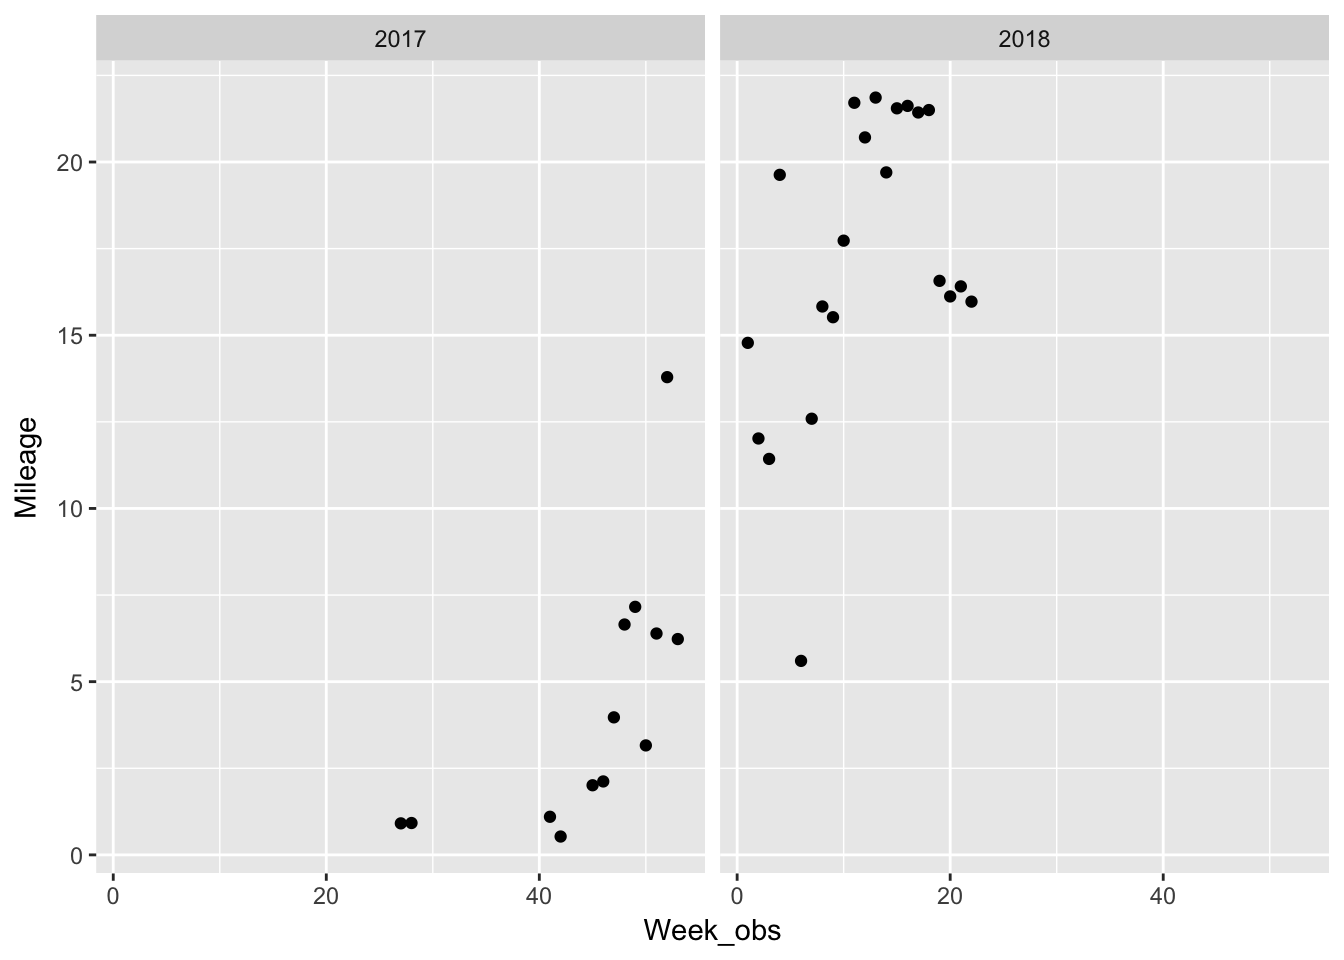
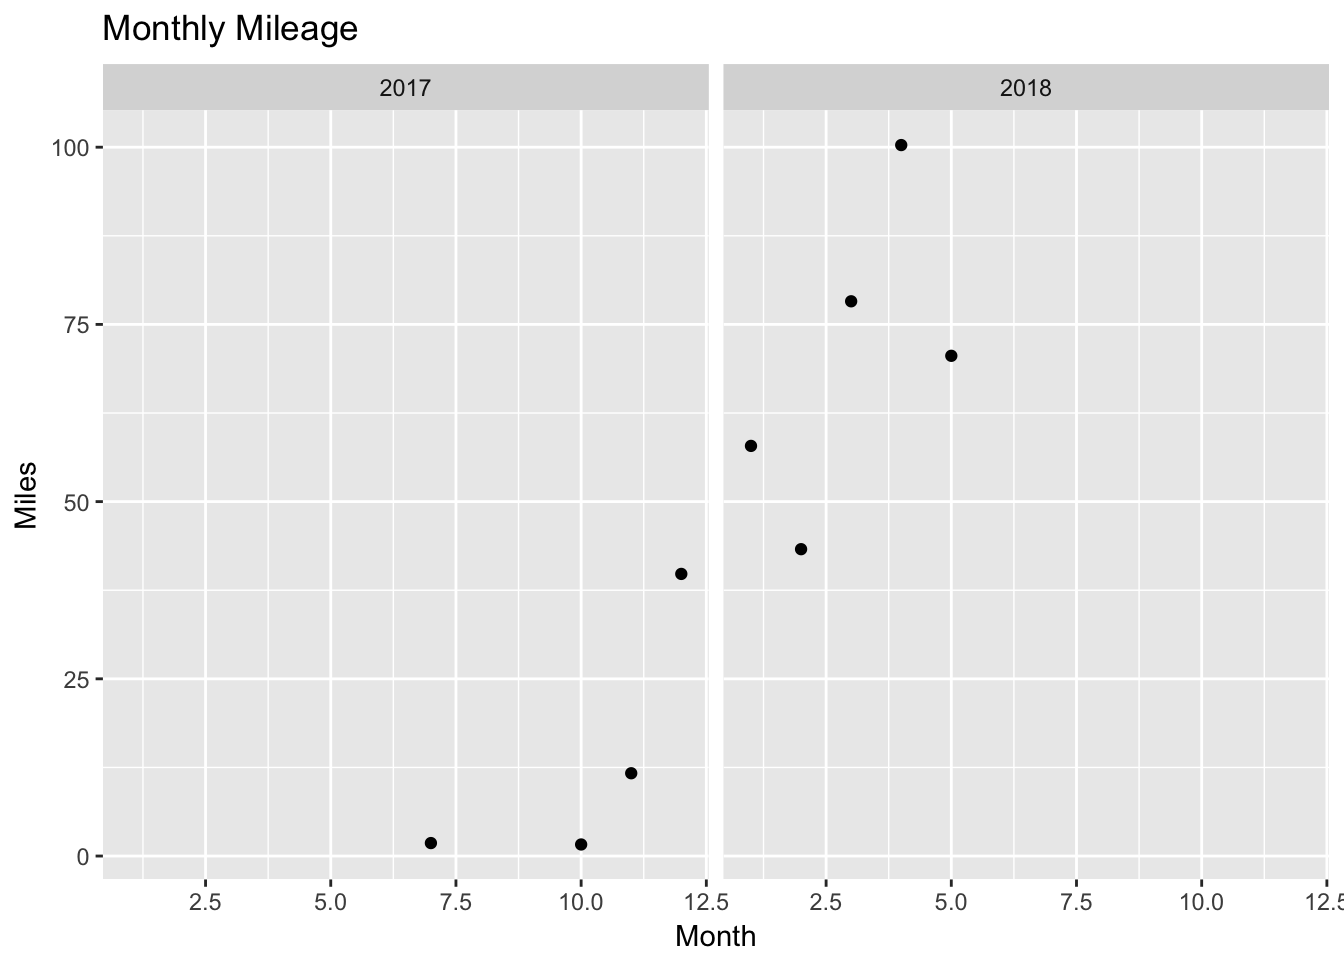
minor changes

diff --git a/2018/06/03/runkeeper-data/index.html b/2018/06/03/runkeeper-data/index.html
@@ -8,9 +8,9 @@
   <title>Runkeeper Data</title>
   <meta property="og:title" content="Runkeeper Data" />
   <meta name="twitter:title" content="Runkeeper Data" />
-  <meta name="description" content="Last summer I started running again after about 8 years off. I had run from my sophomore year of high school until the fall of 2008 when it seemed like I had a meniscus injury and I stopped running. That was 17 years of running during which the longest break I had taken was maybe a few months. I always missed it, so when my son started training for a Scouting event, I decided I would keep him company.">
-  <meta property="og:description" content="Last summer I started running again after about 8 years off. I had run from my sophomore year of high school until the fall of 2008 when it seemed like I had a meniscus injury and I stopped running. That was 17 years of running during which the longest break I had taken was maybe a few months. I always missed it, so when my son started training for a Scouting event, I decided I would keep him company.">
-  <meta name="twitter:description" content="Last summer I started running again after about 8 years off. I had run from my sophomore year of high school until the fall of 2008 when it seemed like I had a meniscus injury and I stopped running. …">
+  <meta name="description" content="Last summer I started running again after about 8 years off. I had run from my sophomore year of high school until the fall of 2008 when it seemed like I had a meniscus injury and I stopped running. I had run for 17 years, during which the longest break I had taken was maybe a few months. After I stopped, I always missed it, and when my son started training for a Scouting running achievement, I decided I would keep him company.">
+  <meta property="og:description" content="Last summer I started running again after about 8 years off. I had run from my sophomore year of high school until the fall of 2008 when it seemed like I had a meniscus injury and I stopped running. I had run for 17 years, during which the longest break I had taken was maybe a few months. After I stopped, I always missed it, and when my son started training for a Scouting running achievement, I decided I would keep him company.">
+  <meta name="twitter:description" content="Last summer I started running again after about 8 years off. I had run from my sophomore year of high school until the fall of 2008 when it seemed like I had a meniscus injury and I stopped running. I …">
   <meta name="author" content="Mike Ching"/>
   <link href='../../../../img/favicon.ico' rel='icon' type='image/x-icon'/>
   <meta property="og:image" content="/img/IMG_6557.jpg" />
@@ -190,53 +190,33 @@
   <div class="row">
     <div class="col-lg-8 col-lg-offset-2 col-md-10 col-md-offset-1">
       <article role="main" class="blog-post">
-        <p>Last summer I started running again after about 8 years off. I had run from my sophomore year of high school until the fall of 2008 when it seemed like I had a meniscus injury and I stopped running. That was 17 years of running during which the longest break I had taken was maybe a few months. I always missed it, so when my son started training for a Scouting event, I decided I would keep him company. Lo and behold my knee felt ok, so I figured I would keep going. I’ve been using the Runkeeper app to track my runs and decided to look at what the data showed.</p>
-<pre class="r"><code>library(dplyr)</code></pre>
-<pre><code>## 
-## Attaching package: &#39;dplyr&#39;</code></pre>
-<pre><code>## The following objects are masked from &#39;package:stats&#39;:
-## 
-##     filter, lag</code></pre>
-<pre><code>## The following objects are masked from &#39;package:base&#39;:
-## 
-##     intersect, setdiff, setequal, union</code></pre>
-<pre class="r"><code>library(ggplot2)
-library(lubridate)</code></pre>
-<pre><code>## 
-## Attaching package: &#39;lubridate&#39;</code></pre>
-<pre><code>## The following object is masked from &#39;package:base&#39;:
-## 
-##     date</code></pre>
+        <p>Last summer I started running again after about 8 years off. I had run from my sophomore year of high school until the fall of 2008 when it seemed like I had a meniscus injury and I stopped running. I had run for 17 years, during which the longest break I had taken was maybe a few months. After I stopped, I always missed it, and when my son started training for a Scouting running achievement, I decided I would keep him company. Lo and behold my knee felt ok, so I figured I would keep going. I’ve been using the <a href="https://runkeeper.com/index">Runkeeper</a> app to track my runs and decided to look at what the data showed.</p>
+<pre class="r"><code>suppressPackageStartupMessages(library(dplyr))
+library(ggplot2)
+suppressPackageStartupMessages(library(lubridate))</code></pre>
+<p>I downloaded the data from the <a href="https://runkeeper.com/index">Runkeeper website.</a> It came as a zip file containing all my GPS tracks plus a processed csv file.</p>
 <pre class="r"><code>dat &lt;- tbl_df(read.csv(&quot;../datasets/cardioActivities.csv&quot;))
-dat</code></pre>
-<pre><code>## # A tibble: 89 x 14
-##    Activity.Id  Date  Type  Route.Name Distance..mi. Duration Average.Pace
-##    &lt;fct&gt;        &lt;fct&gt; &lt;fct&gt; &lt;lgl&gt;              &lt;dbl&gt; &lt;fct&gt;    &lt;fct&gt;       
-##  1 4ff0c9dd-97… 2018… Runn… NA                 10    1:32:29  9:15        
-##  2 dc011367-b4… 2018… Runn… NA                  5.97 54:27    9:08        
-##  3 0e7d5b74-7a… 2018… Rowi… NA                  3.82 30:08    7:53        
-##  4 870ef074-54… 2018… Runn… NA                 11.4  1:50:01  9:40        
-##  5 3afb0d49-06… 2018… Cycl… NA                  8.61 36:10    4:12        
-##  6 77913c3d-92… 2018… Runn… NA                  5.02 47:38    9:30        
-##  7 1450300b-c6… 2018… Runn… NA                  6.22 53:00    8:31        
-##  8 39ca5e99-8f… 2018… Runn… NA                  0.88 8:58     10:10       
-##  9 ce730a71-95… 2018… Runn… NA                  5.01 46:07    9:13        
-## 10 5febf442-c3… 2018… Runn… NA                  4.01 36:46    9:10        
-## # ... with 79 more rows, and 7 more variables: Average.Speed..mph. &lt;dbl&gt;,
-## #   Calories.Burned &lt;dbl&gt;, Climb..ft. &lt;int&gt;,
-## #   Average.Heart.Rate..bpm. &lt;int&gt;, Friend.s.Tagged &lt;lgl&gt;, Notes &lt;fct&gt;,
-## #   GPX.File &lt;fct&gt;</code></pre>
+glimpse(dat)</code></pre>
+<pre><code>## Observations: 89
+## Variables: 14
+## $ Activity.Id              &lt;fct&gt; 4ff0c9dd-9713-4a29-98e2-8112c66e2d5c,...
+## $ Date                     &lt;fct&gt; 2018-06-01 16:45:49, 2018-05-30 06:31...
+## $ Type                     &lt;fct&gt; Running, Running, Rowing, Running, Cy...
+## $ Route.Name               &lt;lgl&gt; NA, NA, NA, NA, NA, NA, NA, NA, NA, N...
+## $ Distance..mi.            &lt;dbl&gt; 10.00, 5.97, 3.82, 11.39, 8.61, 5.02,...
+## $ Duration                 &lt;fct&gt; 1:32:29, 54:27, 30:08, 1:50:01, 36:10...
+## $ Average.Pace             &lt;fct&gt; 9:15, 9:08, 7:53, 9:40, 4:12, 9:30, 8...
+## $ Average.Speed..mph.      &lt;dbl&gt; 6.49, 6.57, 7.61, 6.21, 14.28, 6.32, ...
+## $ Calories.Burned          &lt;dbl&gt; 1334.0000, 801.0000, 369.6282, 1509.0...
+## $ Climb..ft.               &lt;int&gt; 142, 125, 0, 96, 0, 160, 59, 8, 160, ...
+## $ Average.Heart.Rate..bpm. &lt;int&gt; NA, NA, NA, NA, NA, NA, 167, 152, 146...
+## $ Friend.s.Tagged          &lt;lgl&gt; NA, NA, NA, NA, NA, NA, NA, NA, NA, N...
+## $ Notes                    &lt;fct&gt; , , , , , , Time trial goal 10k in 54...
+## $ GPX.File                 &lt;fct&gt; 2018-06-01-164549.gpx, 2018-05-30-063...</code></pre>
 <pre class="r"><code>dat$Date &lt;- ymd_hms(dat$Date)</code></pre>
-<div id="activities" class="section level2">
-<h2>Activities</h2>
-<p>I don’t consistently tracka c</p>
-<pre class="r"><code>table(dat$Type)</code></pre>
-<pre><code>## 
-## Cycling  Rowing Running 
-##       5       4      80</code></pre>
-</div>
 <div id="weekly-mileage" class="section level2">
 <h2>Weekly Mileage</h2>
+<p>There was a lot of data there but I thought the first thing to start with would be my weekly mileage. I wanted to see how that changed over the last year.</p>
 <pre class="r"><code>dat %&gt;%  
 #  filter(Date &lt; ymd(20180601)) %&gt;% 
   filter(Type == &quot;Running&quot;) %&gt;%
@@ -245,8 +225,76 @@ dat</code></pre>
   summarize(Mileage = sum(Distance..mi.)) %&gt;%
   ggplot(aes(x = Week_obs, y = Mileage)) + 
   facet_grid( ~ factor(Year_obs)) +
-  geom_point()</code></pre>
+  geom_point() +
+  labs(title = &quot;Weekly Mileage&quot;,
+       x = &quot;Week&quot;, 
+       y = &quot;Miles&quot;)</code></pre>
+<p><img src="../../../../post/2018-06-03-runkeeper-data_files/figure-html/unnamed-chunk-4-1.png" width="672" /></p>
+</div>
+<div id="monthly-mileage" class="section level2">
+<h2>Monthly Mileage</h2>
+<p>In <a href="https://www.amazon.com/dp/B0015DWJ8W/ref=dp-kindle-redirect?_encoding=UTF8&amp;btkr=1">What I Talk about When I Talk about Running</a> by Haruki Murakami, he talks about his monthly mileage, averaging 136-186 miles per month. My monthly averages weren’t as impressive as his.</p>
+<pre class="r"><code>dat %&gt;%  
+  filter(Date &lt; ymd(&quot;20180601&quot;)) %&gt;%
+  filter(Type == &quot;Running&quot;) %&gt;%
+  mutate(Month_obs = month(Date), Year_obs = year(Date)) %&gt;%
+  group_by(Year_obs, Month_obs) %&gt;%
+  summarize(Mileage = sum(Distance..mi.)) %&gt;%
+  ggplot(aes(x = Month_obs, y = Mileage)) + 
+  facet_grid( ~ factor(Year_obs)) +
+  geom_point() +
+  labs(title = &quot;Monthly Mileage&quot;,
+       x = &quot;Month&quot;, 
+       y = &quot;Miles&quot;)</code></pre>
 <p><img src="../../../../post/2018-06-03-runkeeper-data_files/figure-html/unnamed-chunk-5-1.png" width="672" /></p>
+</div>
+<div id="calories-burned" class="section level2">
+<h2>Calories Burned</h2>
+<p>I tracked my weekly calories burned, expecting that these would be highly correlated with mileage.</p>
+<pre class="r"><code>dat %&gt;%  
+  filter(Type == &quot;Running&quot;) %&gt;%
+  mutate(Week_obs = week(Date), Year_obs = year(Date)) %&gt;%
+  group_by(Year_obs, Week_obs) %&gt;%
+  summarize(Calories = sum(Calories.Burned)) %&gt;%
+  ggplot(aes(x = Week_obs, y = Calories)) + 
+  facet_grid( ~ factor(Year_obs)) +
+  geom_point() +
+  labs(title = &quot;Weekly Calories&quot;,
+       x = &quot;Week&quot;, 
+       y = &quot;Total Calories&quot;)</code></pre>
+<p><img src="../../../../post/2018-06-03-runkeeper-data_files/figure-html/unnamed-chunk-6-1.png" width="672" /></p>
+</div>
+<div id="correlation-between-calories-and-miles" class="section level2">
+<h2>Correlation between Calories and Miles</h2>
+<p>The app estimated calories per run. There was a linear correlation between calories and miles run, as displayed below.</p>
+<pre class="r"><code>dat %&gt;% filter(Type == &quot;Running&quot;) %&gt;%
+  ggplot(aes(x = Distance..mi., y = Calories.Burned)) + geom_point() + geom_smooth(method = &quot;lm&quot;) +
+  labs(title = &quot;Correlation between Calories and Miles Run&quot;,
+       x = &quot;Miles&quot;,
+       y = &quot;Calories&quot;)</code></pre>
+<p><img src="../../../../post/2018-06-03-runkeeper-data_files/figure-html/unnamed-chunk-7-1.png" width="672" /></p>
+<p>This was a very linear relationship, even at the very extremes of the distances run. I fit a linear model and determined that a rough estimate of the energy expenditure rate was 136 calories per mile.</p>
+<pre class="r"><code>x &lt;- filter(dat, Type == &quot;Running&quot;)
+model1 &lt;- lm(x$Calories.Burned ~ x$Distance..mi.)
+summary(model1)</code></pre>
+<pre><code>## 
+## Call:
+## lm(formula = x$Calories.Burned ~ x$Distance..mi.)
+## 
+## Residuals:
+##     Min      1Q  Median      3Q     Max 
+## -66.844  -5.463  -1.716   4.585  44.856 
+## 
+## Coefficients:
+##                 Estimate Std. Error t value Pr(&gt;|t|)    
+## (Intercept)      -3.6690     4.3352  -0.846      0.4    
+## x$Distance..mi. 136.1300     0.7617 178.715   &lt;2e-16 ***
+## ---
+## Signif. codes:  0 &#39;***&#39; 0.001 &#39;**&#39; 0.01 &#39;*&#39; 0.05 &#39;.&#39; 0.1 &#39; &#39; 1
+## 
+## Residual standard error: 15.91 on 78 degrees of freedom
+## Multiple R-squared:  0.9976, Adjusted R-squared:  0.9975 
+## F-statistic: 3.194e+04 on 1 and 78 DF,  p-value: &lt; 2.2e-16</code></pre>
 </div>
 
       </article>

diff --git a/2017/12/20/hi-hs-football-allstars/index.html b/2017/12/20/hi-hs-football-allstars/index.html
@@ -224,7 +224,7 @@ fb &lt;- gs_title(&quot;HI_football_allstars&quot;)</code></pre>
 ## $ paper    &lt;chr&gt; &quot;HSA&quot;, &quot;HSA&quot;, &quot;HSA&quot;, &quot;HSA&quot;, &quot;HSA&quot;, &quot;HSA&quot;, &quot;HSA&quot;, &quot;HSA...</code></pre>
 <pre class="r"><code>x$position &lt;- factor(x$position)
 x$paper &lt;- factor(x$paper)</code></pre>
-<p>Historically there were two newspapers in Honolulu, the Honolulu Star-Bulletin and the Honolulu Advertiser. These newspapers published separate all star lists until they merged in early 2010 and became the Honolulu Star-Advertiser.</p>
+<p>Historically there were two newspapers in Honolulu, the Honolulu Star-Bulletin and the Honolulu Advertiser. These newspapers published separate all star lists until they merged in early 2010 and became the <a href="http://www.staradvertiser.com/">Honolulu Star-Advertiser.</a></p>
 <p>I calculated the size of the all star teams over the years.</p>
 <pre class="r"><code># players over years
 x %&gt;% mutate(one = 1) %&gt;% group_by(year, paper) %&gt;% summarize(nplayers = sum(one)) %&gt;%
@@ -388,6 +388,157 @@ x %&gt;%
        subtitle = &quot;1972-2017, minimum 10 players&quot;,
        y = &quot;Number of All Stars&quot;)</code></pre>
 <p><img src="../../../../post/2017-12-20-hawaii-high-school-football-allstars_files/figure-html/unnamed-chunk-10-1.png" width="672" /></p>
+<p>It turned out that Saint Louis has been dominant for decades but Kahuku has come on strong lately. Kahuku’s rise has correlated with a slight downturn in Kamehameha and Waianae. It’s possible that Kamehameha used to get Kahuku players to come to their school but now they choose to stay home. On the other hand it doesn’t seem likely that Waianae’s players moved to Kahuku to play. Future steps might be looking at the early decades since they’re all crushed together there at the bottom of the chart.</p>
+</div>
+<div id="position-u" class="section level2">
+<h2>Position U</h2>
+<p>I hypothesized that some schools might have more all stars at certain positions than other schools. Here’s the list for quarterback.</p>
+<pre class="r"><code>x %&gt;%   
+  mutate(name = paste(first, last), one = 1) %&gt;% 
+  group_by(year) %&gt;%
+  distinct(name, .keep_all = T) %&gt;% 
+  group_by(position, team) %&gt;%
+  summarize(nplayers = n()) %&gt;% 
+  filter(position == &quot;QB&quot;) %&gt;%
+  arrange(-nplayers)</code></pre>
+<pre><code>## # A tibble: 13 x 3
+## # Groups:   position [1]
+##    position team        nplayers
+##    &lt;fct&gt;    &lt;chr&gt;          &lt;int&gt;
+##  1 QB       Saint Louis       19
+##  2 QB       Leilehua           5
+##  3 QB       Pac-Five           5
+##  4 QB       Punahou            5
+##  5 QB       Iolani             4
+##  6 QB       Kahuku             3
+##  7 QB       Waianae            3
+##  8 QB       Mililani           2
+##  9 QB       Farrington         1
+## 10 QB       Kaiser             1
+## 11 QB       Kamehameha         1
+## 12 QB       Lahainaluna        1
+## 13 QB       McKinley           1</code></pre>
+<p>Running back was surprisingly different. Farrington came out on top here.</p>
+<pre class="r"><code>x %&gt;%   
+  mutate(name = paste(first, last), one = 1) %&gt;% 
+  group_by(year) %&gt;%
+  distinct(name, .keep_all = T) %&gt;% 
+  group_by(position, team) %&gt;%
+  summarize(nplayers = n()) %&gt;% 
+  filter(position == &quot;RB&quot;) %&gt;%
+  arrange(-nplayers)</code></pre>
+<pre><code>## # A tibble: 21 x 3
+## # Groups:   position [1]
+##    position team        nplayers
+##    &lt;fct&gt;    &lt;chr&gt;          &lt;int&gt;
+##  1 RB       Farrington        16
+##  2 RB       Kahuku            15
+##  3 RB       Kamehameha        11
+##  4 RB       Saint Louis        9
+##  5 RB       Punahou            7
+##  6 RB       Waianae            5
+##  7 RB       Damien             4
+##  8 RB       Leilehua           4
+##  9 RB       Mililani           4
+## 10 RB       Iolani             3
+## # ... with 11 more rows</code></pre>
+<p>Other positions were pretty much dominated by Saint Louis, just like the regular rankings.</p>
+<pre class="r"><code>x %&gt;%   
+  mutate(name = paste(first, last), one = 1) %&gt;% 
+  group_by(year) %&gt;%
+  distinct(name, .keep_all = T) %&gt;% 
+  group_by(position, team) %&gt;%
+  summarize(nplayers = n()) %&gt;% 
+  filter(position == &quot;LB&quot;) %&gt;%
+  arrange(-nplayers)</code></pre>
+<pre><code>## # A tibble: 29 x 3
+## # Groups:   position [1]
+##    position team        nplayers
+##    &lt;fct&gt;    &lt;chr&gt;          &lt;int&gt;
+##  1 LB       Saint Louis       39
+##  2 LB       Kahuku            28
+##  3 LB       Waianae           17
+##  4 LB       Kamehameha        15
+##  5 LB       Punahou           14
+##  6 LB       Farrington        12
+##  7 LB       Castle             6
+##  8 LB       Iolani             6
+##  9 LB       Leilehua           6
+## 10 LB       Damien             5
+## # ... with 19 more rows</code></pre>
+<p>What about player of the year? This was pretty messy in how it was coded. Still there were enough OPOY and DPOY that it might be worth looking at.</p>
+<pre class="r"><code>table(x$poy)</code></pre>
+<pre><code>## 
+##             Back of the year             Back of the Year 
+##                            3                            3 
+##                      co dpoy                      co opoy 
+##                            2                            3 
+##                      co-opoy            coach of the year 
+##                            1                            1 
+##                          cOY                          COY 
+##                            1                            4 
+##                        D POY Defensive player of the year 
+##                            2                            1 
+## Defensive Player of the Year                         dpoy 
+##                           13                            3 
+##                         DPOY          Lineman of the year 
+##                           38                            6 
+##          Lineman of the Year                        O POY 
+##                            2                            1 
+## Offensive Player of the Year                Offensive POY 
+##                            1                            1 
+##                         opoy                         OPOY 
+##                            1                           57 
+##           Player of the Year                           So 
+##                            1                            1 
+##                         soph 
+##                            2</code></pre>
+<p>```</p>
+<pre class="r"><code>x %&gt;%   
+  mutate(name = paste(first, last), one = 1) %&gt;% 
+  group_by(year) %&gt;%
+  distinct(name, .keep_all = T) %&gt;% 
+  filter(!is.na(poy)) %&gt;%
+  filter(poy == &quot;DPOY&quot;) %&gt;%
+  group_by(poy, team) %&gt;%
+  summarize(nplayers = n()) %&gt;%
+  arrange(-nplayers)</code></pre>
+<pre><code>## # A tibble: 8 x 3
+## # Groups:   poy [1]
+##   poy   team        nplayers
+##   &lt;chr&gt; &lt;chr&gt;          &lt;int&gt;
+## 1 DPOY  Kahuku             8
+## 2 DPOY  Waianae            4
+## 3 DPOY  Leilehua           3
+## 4 DPOY  Kamehameha         2
+## 5 DPOY  Mililani           2
+## 6 DPOY  Saint Louis        2
+## 7 DPOY  Campbell           1
+## 8 DPOY  Punahou            1</code></pre>
+<pre class="r"><code>  x %&gt;%   
+  mutate(name = paste(first, last), one = 1) %&gt;% 
+  group_by(year) %&gt;%
+  distinct(name, .keep_all = T) %&gt;% 
+  filter(!is.na(poy)) %&gt;%
+  filter(poy == &quot;OPOY&quot;) %&gt;%
+  group_by(poy, team) %&gt;%
+  summarize(nplayers = n()) %&gt;%
+  arrange(-nplayers)</code></pre>
+<pre><code>## # A tibble: 11 x 3
+## # Groups:   poy [1]
+##    poy   team        nplayers
+##    &lt;chr&gt; &lt;chr&gt;          &lt;int&gt;
+##  1 OPOY  Saint Louis       11
+##  2 OPOY  Kahuku             5
+##  3 OPOY  Leilehua           4
+##  4 OPOY  Punahou            4
+##  5 OPOY  Iolani             2
+##  6 OPOY  Kamehameha         2
+##  7 OPOY  Mililani           2
+##  8 OPOY  Waianae            2
+##  9 OPOY  Damien             1
+## 10 OPOY  Farrington         1
+## 11 OPOY  Kaiser             1</code></pre>
 </div>
 
       </article>

diff --git a/categories/r/index.html b/categories/r/index.html
@@ -181,7 +181,7 @@
               </p>
               <div class="post-entry">
                 
-                  Last summer I started running again after about 8 years off. I had run from my sophomore year of high school until the fall of 2008 when it seemed like I had a meniscus injury and I stopped running. That was 17 years of running during which the longest break I had taken was maybe a few months. I always missed it, so when my son started training for a Scouting event, I decided I would keep him company.
+                  Last summer I started running again after about 8 years off. I had run from my sophomore year of high school until the fall of 2008 when it seemed like I had a meniscus injury and I stopped running. I had run for 17 years, during which the longest break I had taken was maybe a few months. After I stopped, I always missed it, and when my son started training for a Scouting running achievement, I decided I would keep him company.
                   <a href="../../2018/06/03/runkeeper-data/" class="post-read-more">[Read More]</a>
                 
               </div>

diff --git a/tags/exercise/index.html b/tags/exercise/index.html
@@ -181,7 +181,7 @@
               </p>
               <div class="post-entry">
                 
-                  Last summer I started running again after about 8 years off. I had run from my sophomore year of high school until the fall of 2008 when it seemed like I had a meniscus injury and I stopped running. That was 17 years of running during which the longest break I had taken was maybe a few months. I always missed it, so when my son started training for a Scouting event, I decided I would keep him company.
+                  Last summer I started running again after about 8 years off. I had run from my sophomore year of high school until the fall of 2008 when it seemed like I had a meniscus injury and I stopped running. I had run for 17 years, during which the longest break I had taken was maybe a few months. After I stopped, I always missed it, and when my son started training for a Scouting running achievement, I decided I would keep him company.
                   <a href="../../2018/06/03/runkeeper-data/" class="post-read-more">[Read More]</a>
                 
               </div>

diff --git a/post/index.html b/post/index.html
@@ -181,7 +181,7 @@
               </p>
               <div class="post-entry">
                 
-                  Last summer I started running again after about 8 years off. I had run from my sophomore year of high school until the fall of 2008 when it seemed like I had a meniscus injury and I stopped running. That was 17 years of running during which the longest break I had taken was maybe a few months. I always missed it, so when my son started training for a Scouting event, I decided I would keep him company.
+                  Last summer I started running again after about 8 years off. I had run from my sophomore year of high school until the fall of 2008 when it seemed like I had a meniscus injury and I stopped running. I had run for 17 years, during which the longest break I had taken was maybe a few months. After I stopped, I always missed it, and when my son started training for a Scouting running achievement, I decided I would keep him company.
                   <a href="../2018/06/03/runkeeper-data/" class="post-read-more">[Read More]</a>
                 
               </div>

diff --git a/index.html b/index.html
@@ -203,7 +203,7 @@
 
               <div class="post-entry">
                 
-                  Last summer I started running again after about 8 years off. I had run from my sophomore year of high school until the fall of 2008 when it seemed like I had a meniscus injury and I stopped running. That was 17 years of running during which the longest break I had taken was maybe a few months. I always missed it, so when my son started training for a Scouting event, I decided I would keep him company.
+                  Last summer I started running again after about 8 years off. I had run from my sophomore year of high school until the fall of 2008 when it seemed like I had a meniscus injury and I stopped running. I had run for 17 years, during which the longest break I had taken was maybe a few months. After I stopped, I always missed it, and when my son started training for a Scouting running achievement, I decided I would keep him company.
                   <a href="./2018/06/03/runkeeper-data/" class="post-read-more">[Read More]</a>
                 
               </div>
